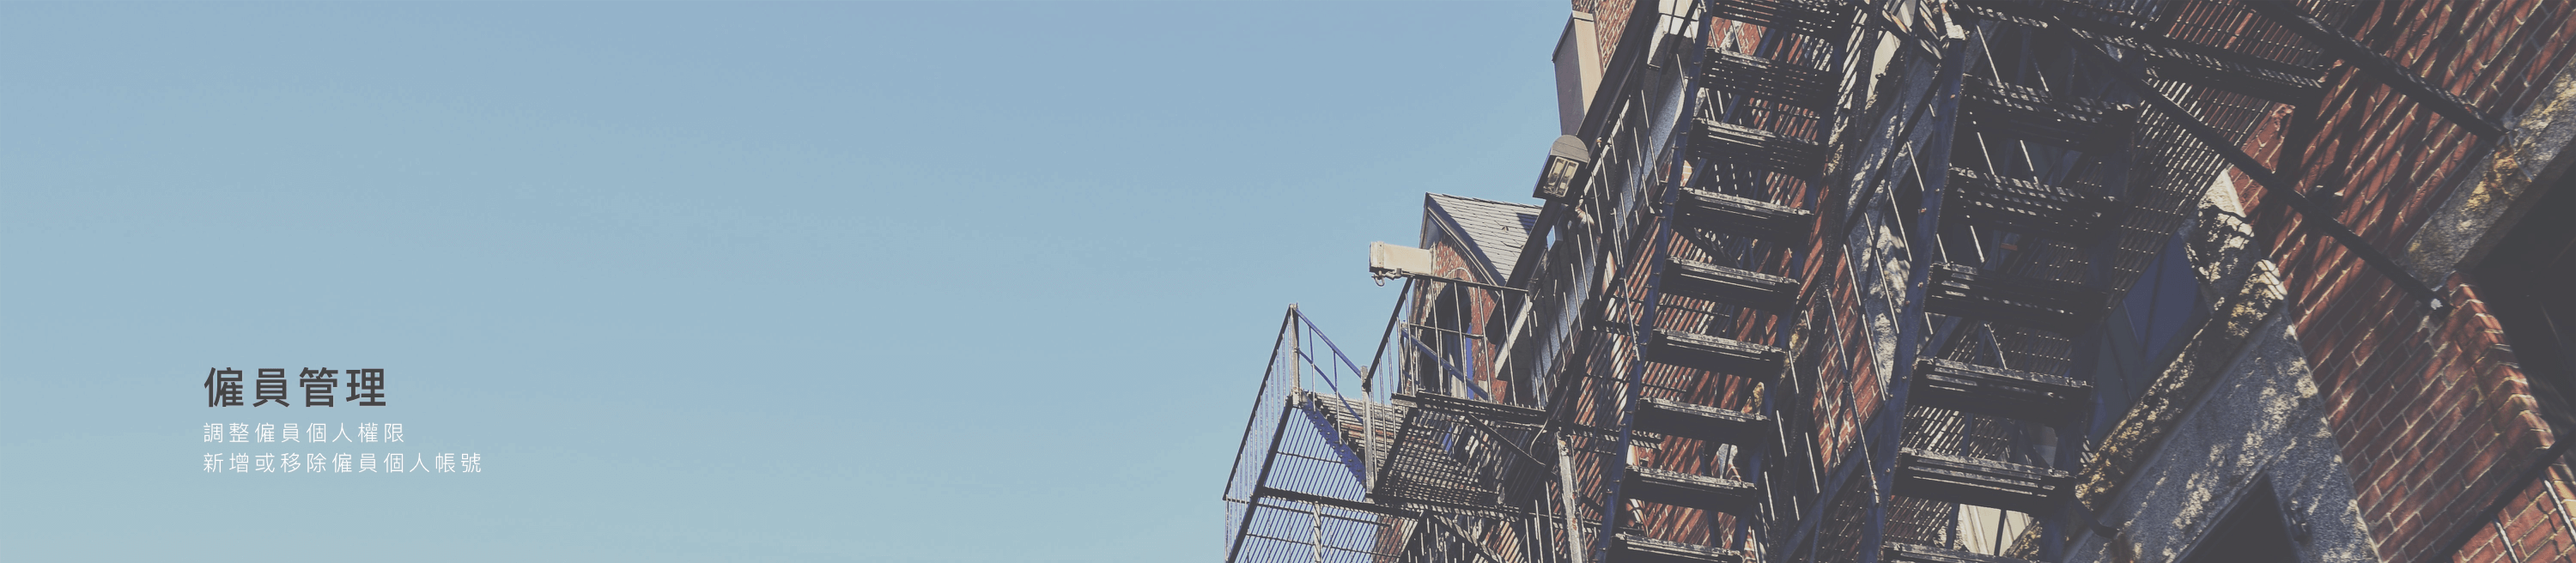
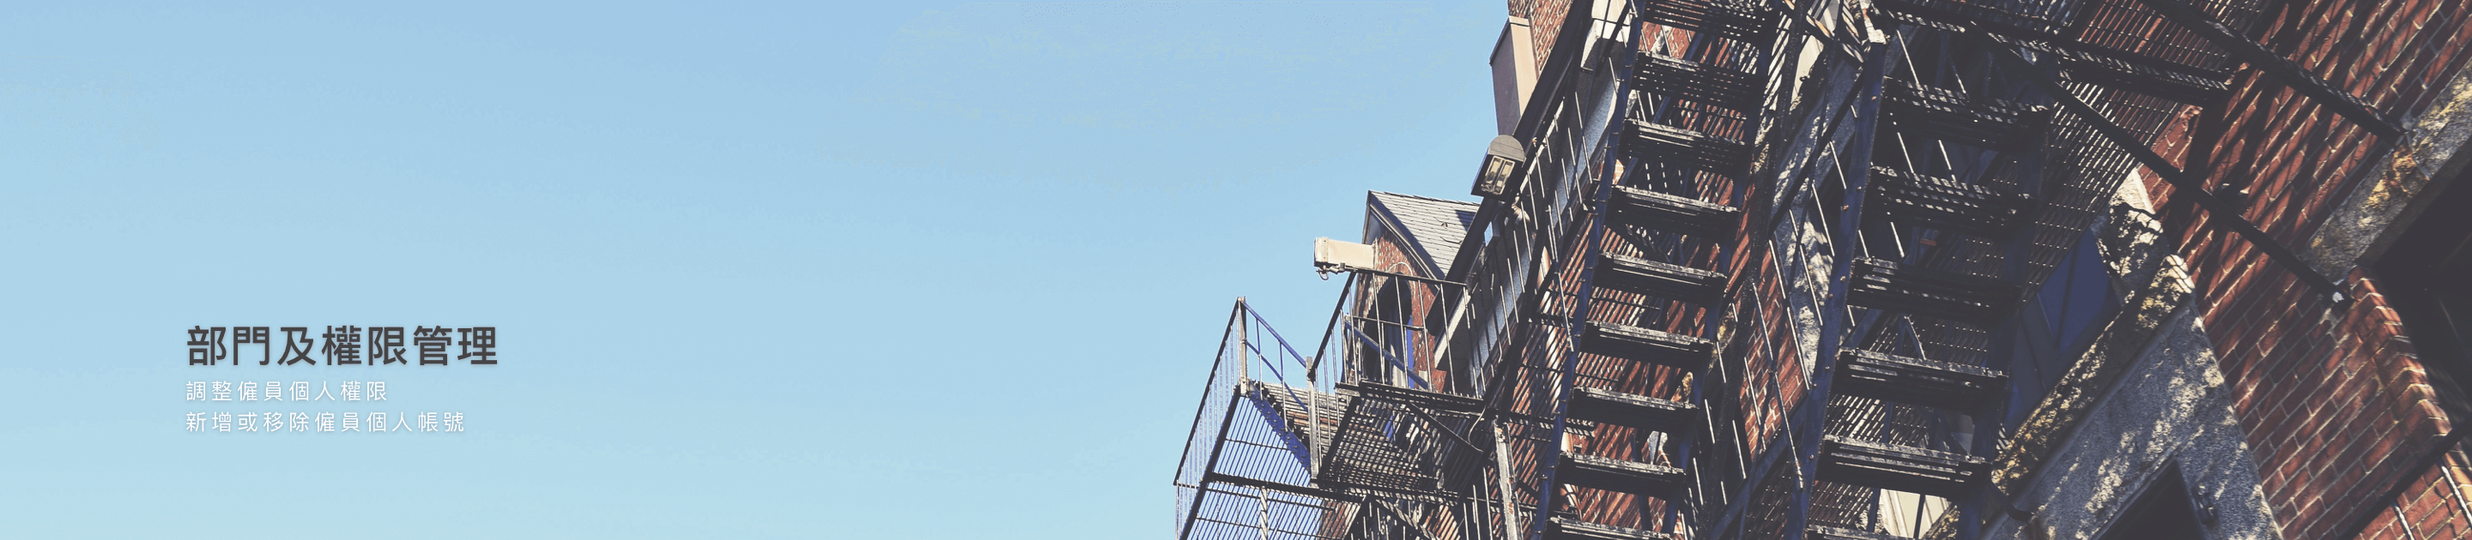
Word change

diff --git a/resources/views/home.blade.php b/resources/views/home.blade.php
@@ -13,7 +13,7 @@
     <h3>CSR資訊管理
       <small>CSR Information Management</small>
       <div style="display:inline;float:right">
-        <a href="./form_maker" target="_blank"><button type="button" class="btn btn-secondary"><i class="far fa-plus"></i> 訂製問卷</button></a>
+        <a href="./form_maker" target="_blank"><button type="button" class="btn btn-secondary"><i class="far fa-plus"></i> 自定義資料</button></a>
       </div>
     </h3>
     <hr>
@@ -22,10 +22,10 @@
   <div class="" style="width:100%;">
     <ul class="nav nav-tabs" id="search-result-tab">
       <li class="nav-item">
-        <a data-toggle="tab" aria-expanded="true" class="nav-link active" href="#my-form">我的問卷</a>
+        <a data-toggle="tab" aria-expanded="true" class="nav-link active" href="#my-form">已填寫的資料</a>
       </li>
       <li class="nav-item">
-        <a data-toggle="tab" aria-expanded="false" class="nav-link" href="#form-list">問卷填寫列表</a>
+        <a data-toggle="tab" aria-expanded="false" class="nav-link" href="#form-list">需要填寫的資料</a>
       </li>
     </ul>
 

diff --git a/resources/views/analysis.blade.php b/resources/views/analysis.blade.php
@@ -12,7 +12,7 @@
         <small>CSR Information Analysis</small>
         <div class="dropdown" style="display:inline;float:right">
           <a class="btn btn-secondary dropdown-toggle" href="#" role="button" id="dropdownMenuLink" data-toggle="dropdown" aria-haspopup="true" aria-expanded="false">
-            問卷選擇
+            CSR 問題選擇
           </a>
 
           <div class="dropdown-menu dropdown-menu-right" aria-labelledby="dropdownMenuLink">

diff --git a/resources/views/inc/navbar.blade.php b/resources/views/inc/navbar.blade.php
@@ -14,7 +14,7 @@
         <a class="nav-link" href="./analysis">CSR資訊分析</a>
       </li>
       <li class="nav-item">
-        <a class="nav-link" href="./manage">員工管理</a>
+        <a class="nav-link" href="./manage">權限管理</a>
       </li>
       <li class="nav-item dropdown">
          <a class="nav-link dropdown-toggle" href="#" id="navbarDropdownMenuLink" role="button" data-toggle="dropdown" aria-haspopup="true" aria-expanded="false">

diff --git a/resources/views/manage.blade.php b/resources/views/manage.blade.php
@@ -8,7 +8,7 @@
 
   <div class="manage-body">
     <div class="page-header">
-      <h3>僱員列表
+      <h3>部門及權限列表
         <small>Employee list</small>
         <button type="button" class="btn btn-secondary" style="float:right;display:inline"><i class="far fa-plus"></i> 新增帳號</button></h3>
       <hr>
